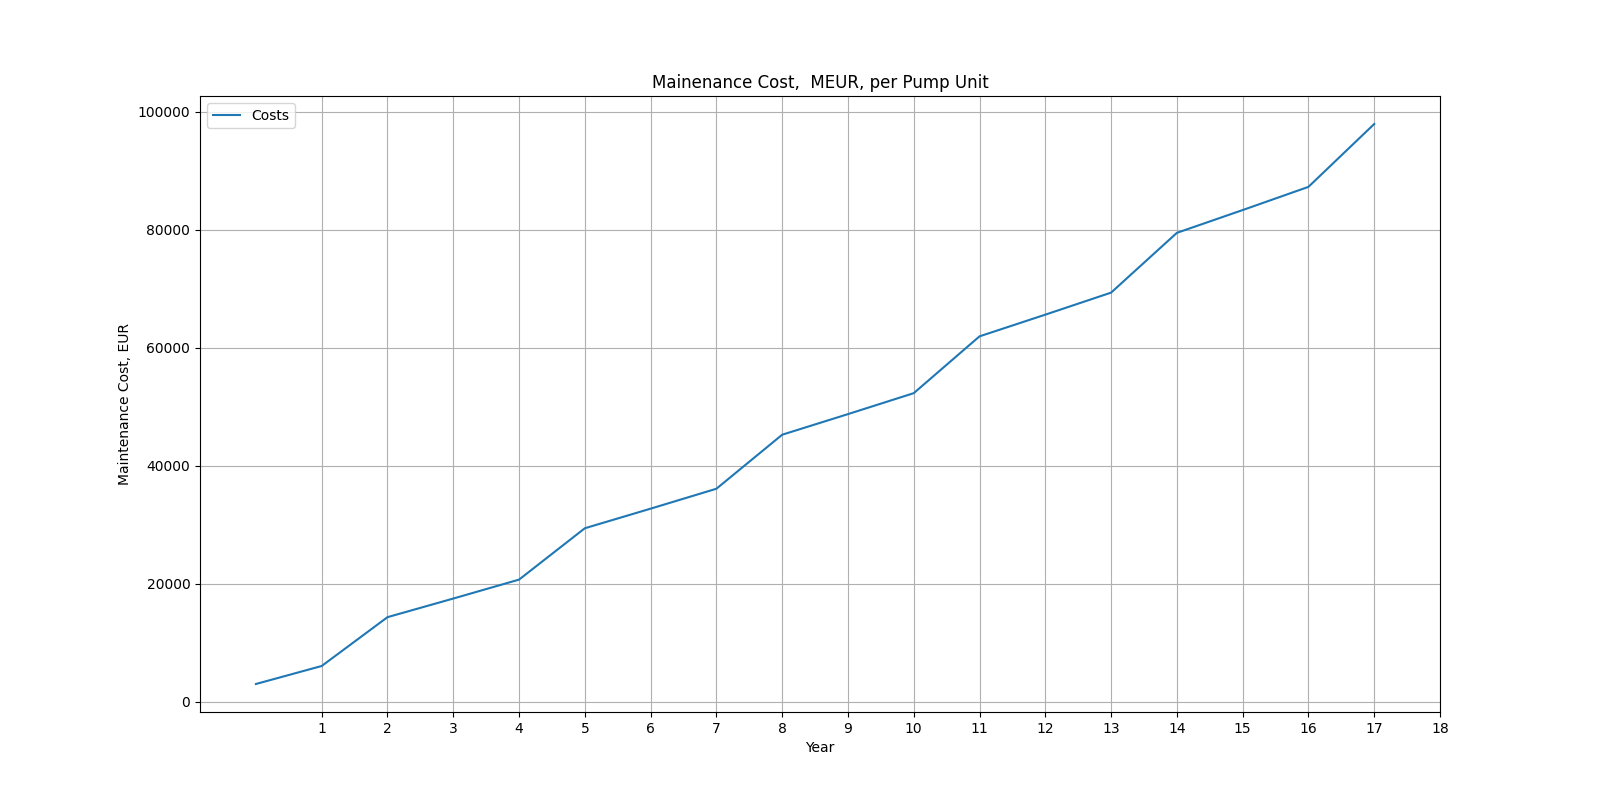
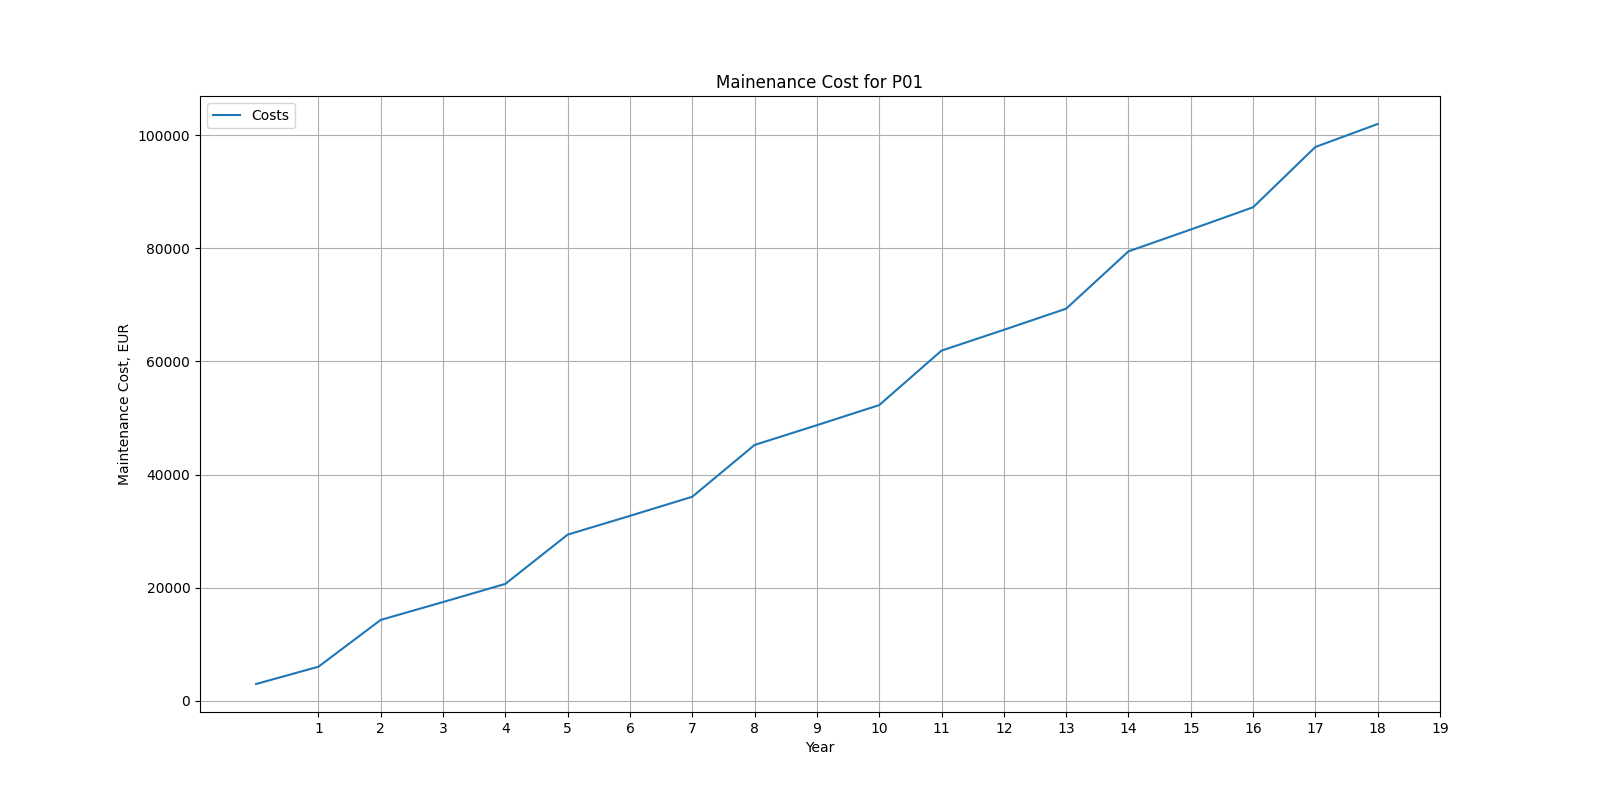
next heroku commit

diff --git a/templates/tco.html b/templates/tco.html
@@ -1,0 +1,41 @@
+{% extends 'base.html'%}
+
+{%block title%}
+TCO
+
+{%endblock%}
+
+{%block body%}
+
+<ul class="nav nav-tabs" id="myTab" role="tablist">
+  <li class="nav-item" role="presentation">
+    <a class="nav-link" id="form" data-bs-toggle="tab" data-bs-target="#Entry form" type="button" role="tab" aria-controls="Entry form" aria-selected="false" href="/form_page">Entry form</a>
+  </li>
+  <li class="nav-item" role="presentation">
+    <a class="nav-link" id="capex" data-bs-toggle="tab" data-bs-target="#capex" type="button" role="tab" aria-controls="capex" aria-selected="false" href="/capex">CAPEX</a>
+  </li>
+  <li class="nav-item" role="presentation">
+    <a class="nav-link" id="efficiency" data-bs-toggle="tab" data-bs-target="#efficiency" type="button" role="tab" aria-controls="efficiency" aria-selected="false" href="/efficiency">Efficiency</a>
+  </li>
+    <li class="nav-item" role="presentation">
+    <a class="nav-link" id="energy" data-bs-toggle="tab" data-bs-target="#energy" type="button" role="tab" aria-controls="energy" aria-selected="false" href="/energy">Energy Cost</a>
+  </li>
+    <li class="nav-item" role="presentation">
+    <a class="nav-link" id="maintenance" data-bs-toggle="tab" data-bs-target="#maintenance" type="button" role="tab" aria-controls="maintenance" aria-selected="false" href="/maintenance">Maintenance Data</a>
+  </li>
+    <li class="nav-item" role="presentation">
+    <a class="nav-link active" id="tco" data-bs-toggle="tab" data-bs-target="#tco" type="button" role="tab" aria-controls="tco" aria-selected="true" href="/tco">TCO</a>
+  </li>
+</ul>
+<div class="tab-content" id="myTabContent">
+  <div class="tab-pane fade" id="form" role="tabpanel" aria-labelledby="Entry form"></div>
+  <div class="tab-pane fade" id="capex" role="tabpanel" aria-labelledby="capex"></div>
+  <div class="tab-pane fade" id="efficiency" role="tabpanel" aria-labelledby="Efficiency"></div>
+  <div class="tab-pane fade" id="energy" role="tabpanel" aria-labelledby="energy"></div>
+  <div class="tab-pane fade" id="maintenance" role="tabpanel" aria-labelledby="maintenance"></div>
+  <div class="tab-pane fade show active" id="tco" role="tabpanel" aria-labelledby="tco"></div>
+</div>
+
+<p class="lead">blank page,  to be added soon</p>
+
+{%endblock%}

diff --git a/templates/form_page.html b/templates/form_page.html
@@ -292,7 +292,7 @@ ul {list-style-type: decimal;}
      <tbody>{% for k in points %}
             <tr>
                 <td class="counterCell"></td>
-                <td> {{k.unit_name}}</td>
+                <td> {{k.eff_driver}}</td>
                 <td> {{k.eff_other}}</td>
                 <td> {{k.power_pump}}</td>
                 <td> {{k.power_aux}}</td>
@@ -338,8 +338,7 @@ ul {list-style-type: decimal;}
           <thead>
           <th scope="col">#</th>
               <th scope="col">Unit name</th>
-                <th scope="col">Efficiency - Others, %</th>
-                <th scope="col">Energy Price, EUR/kWh</th>
+              <th scope="col">Energy Price, EUR/kWh</th>
                 <th scope="col">Annual Price Increase, % </th>
                 <th scope="col"> Number of years</th>
           </thead>

diff --git a/templates/capex.html b/templates/capex.html
@@ -63,7 +63,7 @@ ul {list-style-type: decimal;}
 <div class="tab-content" id="myTabContent">
   <div class="tab-pane fade" id="form" role="tabpanel" aria-labelledby="Entry form"></div>
   <div class="tab-pane fade" id="capex" role="tabpanel" aria-labelledby="capex"></div>
-  <div class="tab-pane fade" id="Efficiency" role="tabpanel" aria-labelledby="Efficiency"></div>
+  <div class="tab-pane fade" id="efficiency" role="tabpanel" aria-labelledby="Efficiency"></div>
   <div class="tab-pane fade" id="energy" role="tabpanel" aria-labelledby="energy"></div>
   <div class="tab-pane fade" id="maintenance" role="tabpanel" aria-labelledby="maintenance"></div>
   <div class="tab-pane fade" id="tco" role="tabpanel" aria-labelledby="tco"></div>

diff --git a/app.py b/app.py
@@ -242,6 +242,7 @@ def maintenance():
          per.append(maintenance.period)
 
      generals = General.query.all()
+     unit_name = generals[0].unit_name
      annual_increase = generals[-1].annual_increase #annual_increase = 1.5
      n=generals[-1].number_years #n = 30
      #[maintenances[-1].period,maintenances[-1].main_price]
@@ -266,7 +267,7 @@ def maintenance():
      plt.switch_backend('agg')
      plt.plot(a, label='Costs')
 #     plt.plot(b, label='VFD')
-     plt.title('Mainenance Cost,  MEUR, per Pump Unit')
+     plt.title('Mainenance Cost for '+ unit_name)
      plt.xlabel('Year')
      plt.ylabel('Maintenance Cost, EUR')
      plt.legend()
@@ -277,7 +278,7 @@ def maintenance():
      years=range(1,n+1)
      # plt.show()
      # plt.close(fig)
-     return render_template('maintenance.html',mains=mains,a=a, years=years)
+     return render_template('maintenance.html',mains=mains,a=a, years=years, unit_name=unit_name)
 
 #Конец обработки форм
 
@@ -320,6 +321,10 @@ def efficiency():
 def energy():
 
     return render_template('energy.html')
+
+@app.route('/tco', methods=['POST', 'GET'])
+def tco():
+        return render_template('tco.html')
 
 @app.route('/capex', methods=['POST','GET'])
 def capex():
